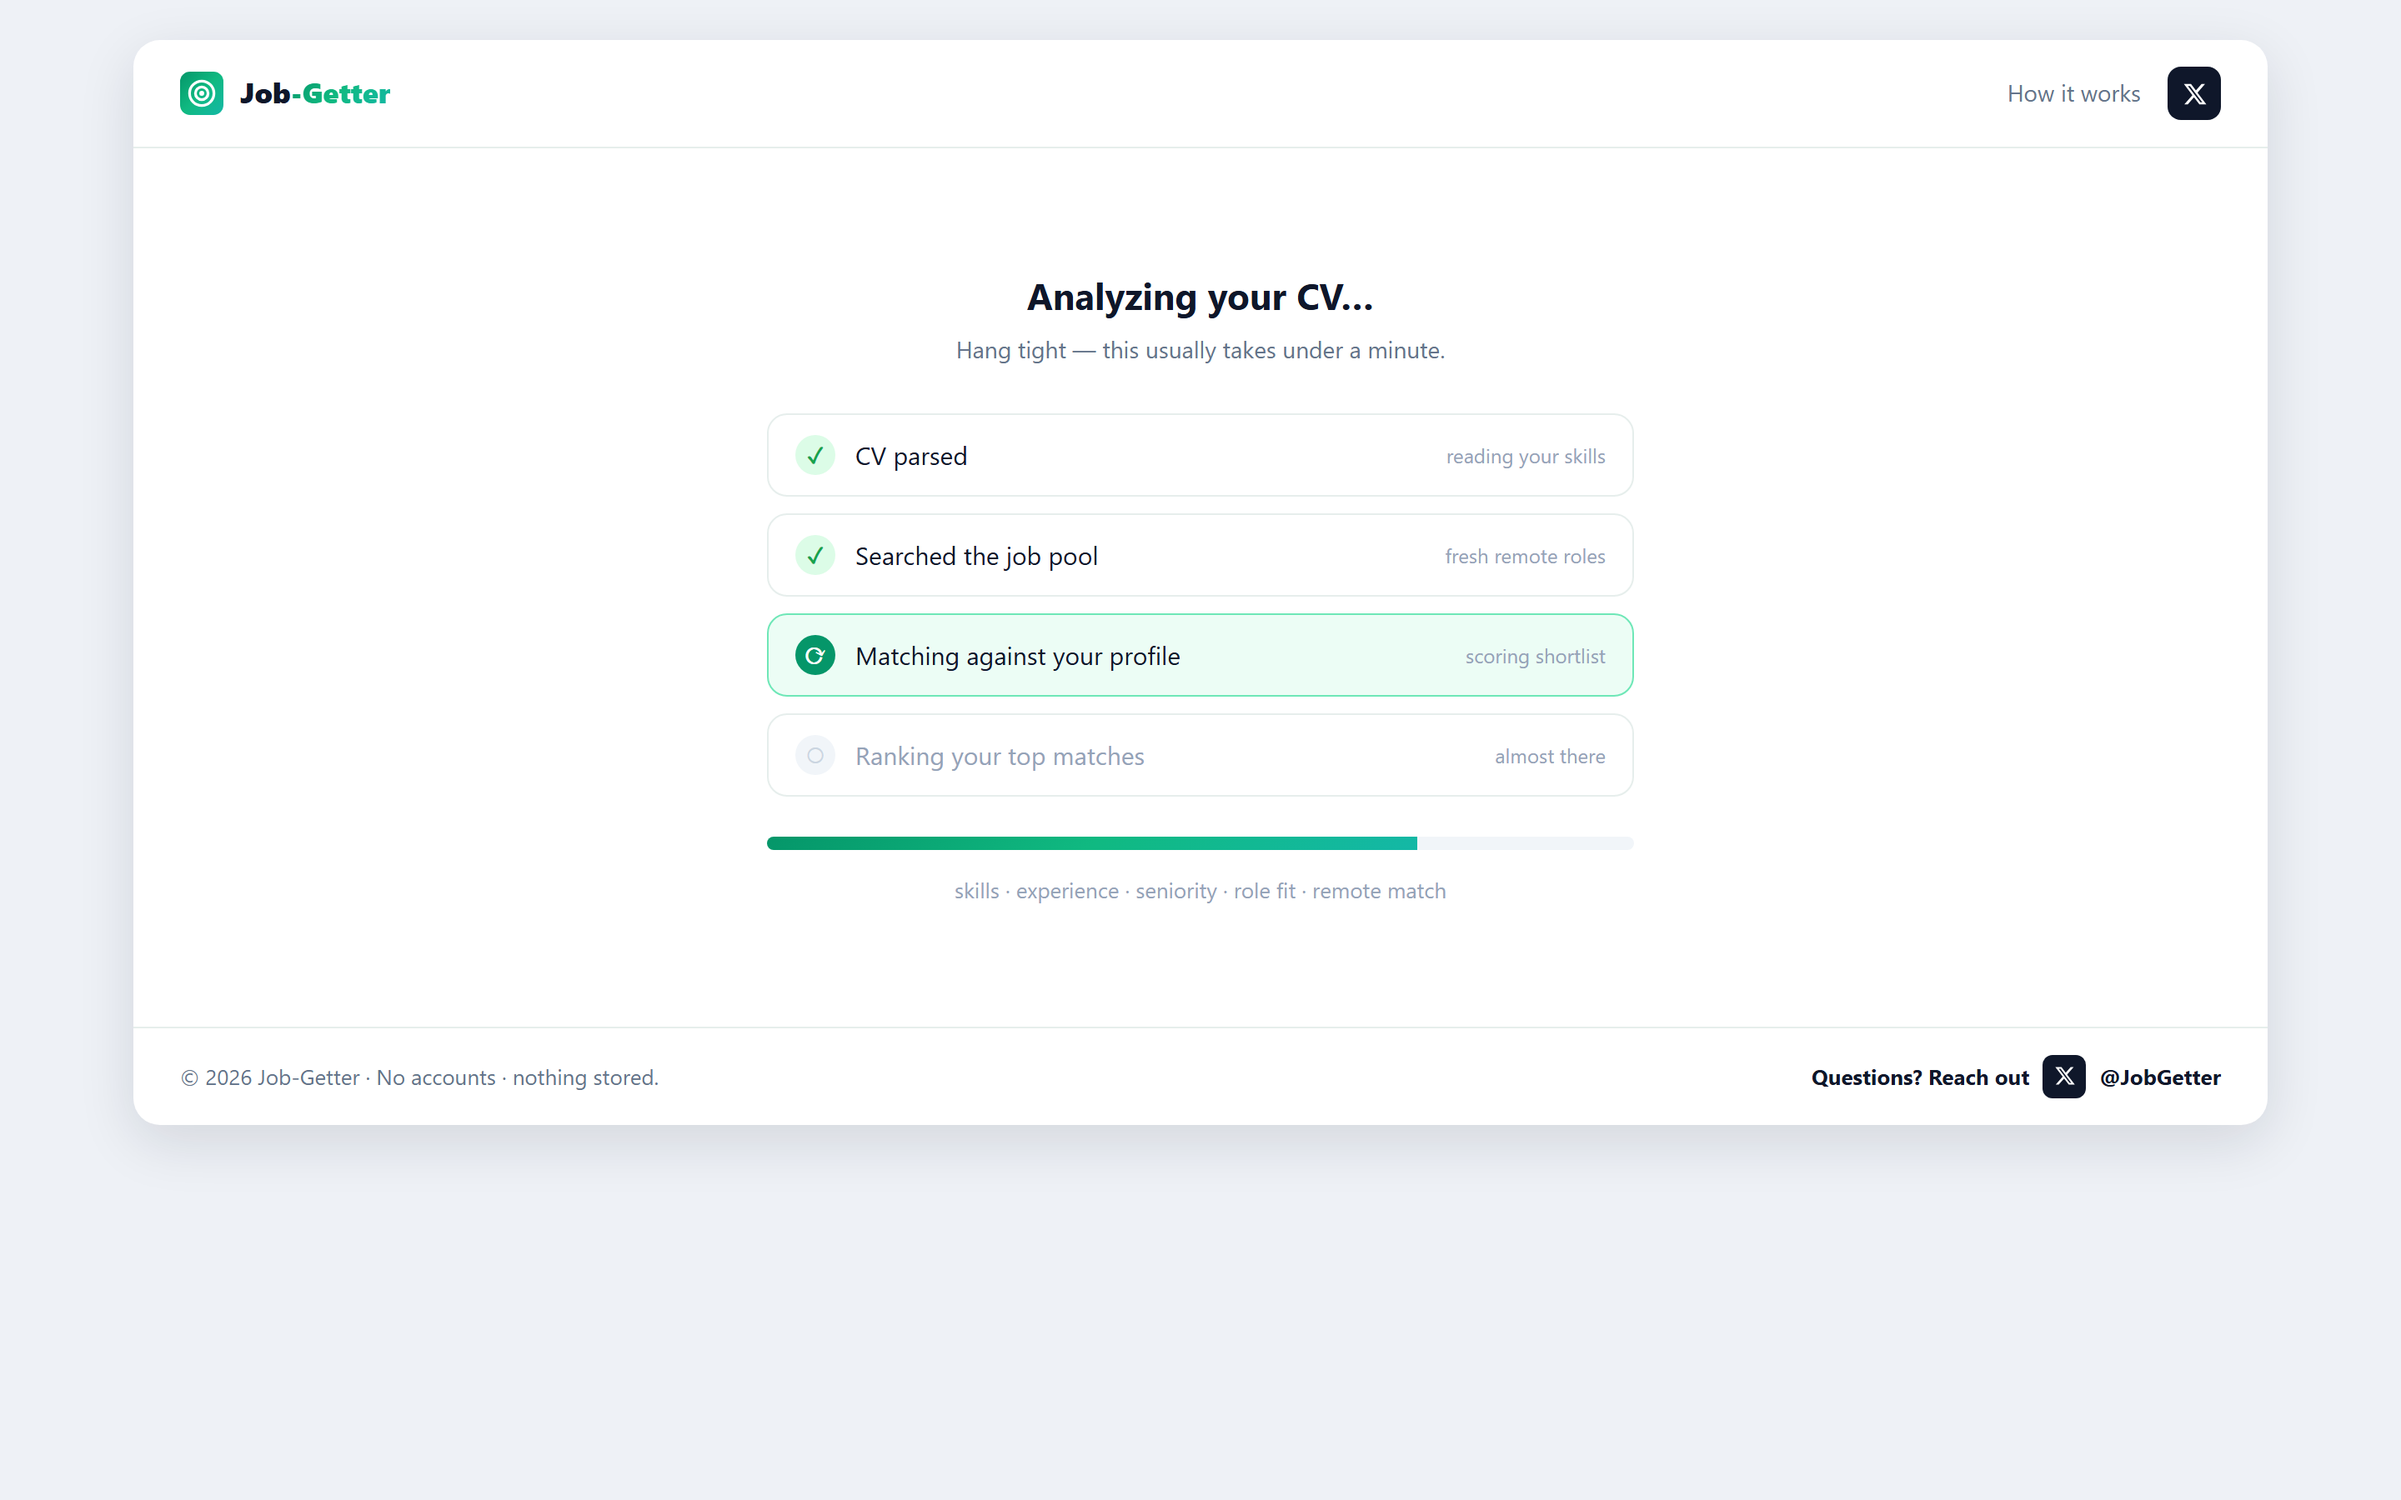
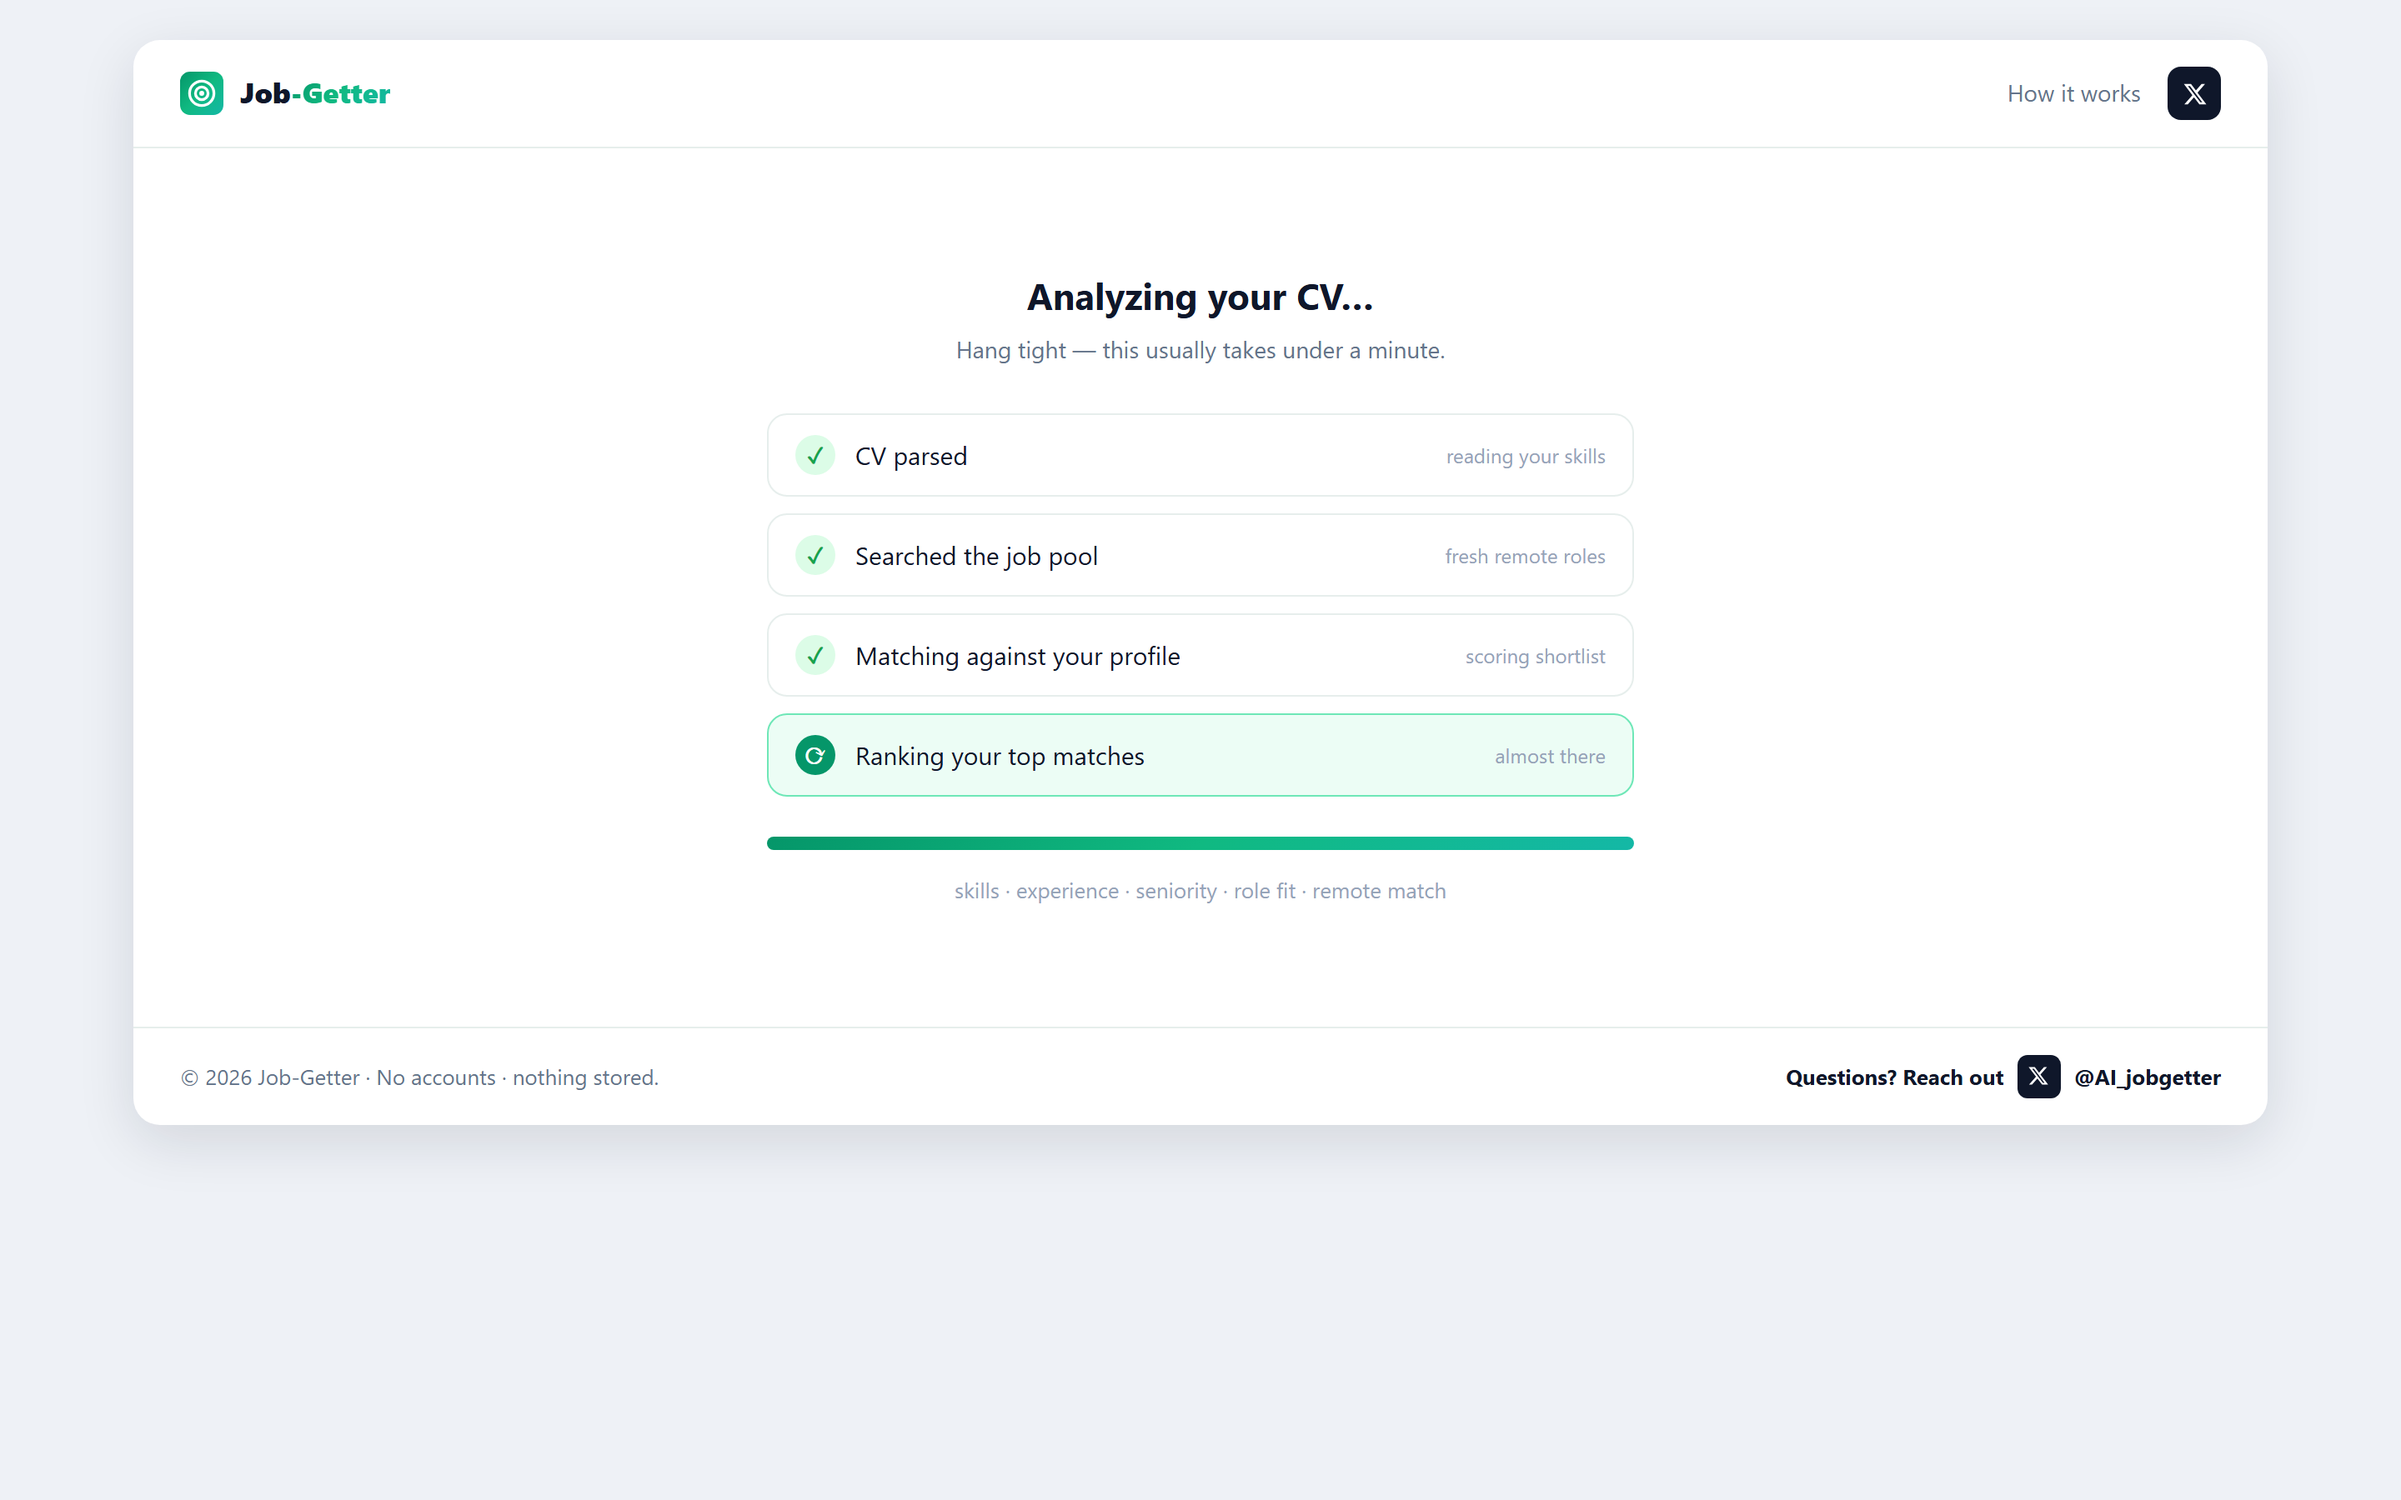
Update the X profile details

Changed region(s): [[0.3125, 0.4044, 0.4688, 0.5289], [0.75, 0.6844, 0.9062, 0.7467], [0.5938, 0.5289, 0.6875, 0.5911]]

diff --git a/frontend/components/Brand.js b/frontend/components/Brand.js
@@ -33,5 +33,5 @@ export function XIcon({ className = "w-4 h-4" }) {
 }
 
 // Placeholder handle — swap before launch.
-export const X_HANDLE = "JobGetter";
+export const X_HANDLE = "AI_jobgetter";
 export const X_URL = `https://x.com/${X_HANDLE}`;

diff --git a/README.md b/README.md
@@ -12,7 +12,7 @@ No account. No profile to fill in. No data stored.
 
 <br />
 
-**[Follow @JobGetter on X](https://x.com/JobGetter)** · Privacy-first remote-job matching
+**[Follow @AI_jobgetter on X](https://x.com/AI_jobgetter)** · Privacy-first remote-job matching
 
 </div>
 
@@ -98,7 +98,7 @@ That means the product ships and serves real users at essentially **$0 fixed cos
 
 ## Contact
 
-Questions, feedback, or a hired shout-out — reach us on X: **[@JobGetter](https://x.com/JobGetter)**.
+Questions, feedback, or a hired shout-out — reach us on X: **[@AI_jobgetter](https://x.com/AI_jobgetter)**.
 
 ## License
 
